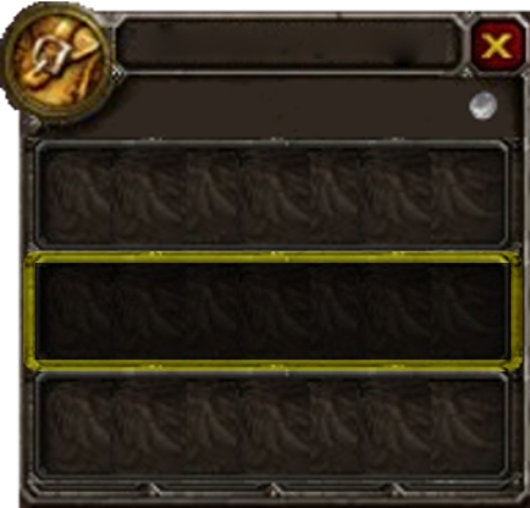
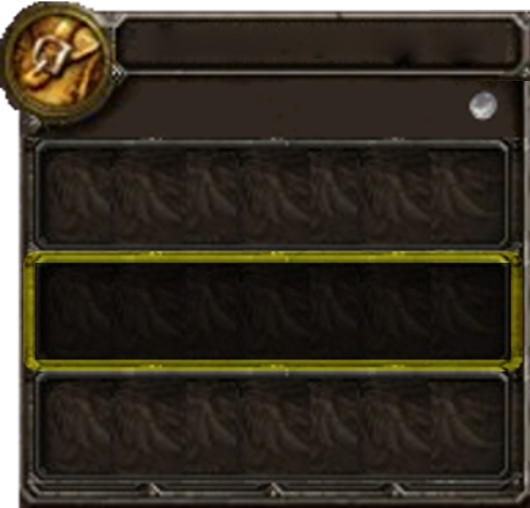
Seperate sprites into 2 arrays & update inventory sprite

Changed region(s): [[0.8453, 0.0, 1.0, 0.1772]]

diff --git a/src/zeldiablo/Canvas.java b/src/zeldiablo/Canvas.java
@@ -29,7 +29,7 @@ public class Canvas extends JPanel {
 
     private final Dimension size;
     public final String imageDirectory;
-    private final String[] bgPictureList;
+    private final String[] bgPictureList, spriteList;
     private ImageIcon backgroundPicture;
     private ImageIcon dialogBox;
     private ImageIcon levelUp;
@@ -62,7 +62,8 @@ public class Canvas extends JPanel {
         size = new Dimension(1180, 780);
         setPreferredSize(size);
         imageDirectory = "images/";
-        bgPictureList = new String[]{"dialogbox.png", "LevelUp.png", "inventory.png", "bg_cobble.jpg", "bg_grass.jpg", "bg_matrix.jpg"};
+        bgPictureList = new String[]{"bg_cobble.jpg", "bg_grass.jpg", "bg_matrix.jpg"};
+        spriteList = new String[]{"dialogbox.png", "LevelUp.png", "inventory.png"};
         gameOver = false;
         demoCounter = 0;
         wKey = false;
@@ -113,7 +114,7 @@ public class Canvas extends JPanel {
      * very important KeyListener that allows to control and play the game!
      */
     private void initGame() {
-        setBackground(5);
+        setBackground(2);
         createGameObjects();
 
         t = new Timer(20, new ActionListener() {
@@ -356,15 +357,15 @@ public class Canvas extends JPanel {
         URL imageURL = getClass().getResource(imagePath);
         backgroundPicture = new ImageIcon(imageURL);
 
-        imagePath = imageDirectory + bgPictureList[0];
+        imagePath = imageDirectory + spriteList[0];
         imageURL = getClass().getResource(imagePath);
         dialogBox = new ImageIcon(imageURL);
 
-        imagePath = imageDirectory + bgPictureList[1];
+        imagePath = imageDirectory + spriteList[1];
         imageURL = getClass().getResource(imagePath);
         levelUp = new ImageIcon(imageURL);
 
-        imagePath = imageDirectory + bgPictureList[2];
+        imagePath = imageDirectory + spriteList[2];
         imageURL = getClass().getResource(imagePath);
         inventory = new ImageIcon(imageURL);
     }
@@ -852,7 +853,7 @@ public class Canvas extends JPanel {
             
             g.setFont(new Font(Font.MONOSPACED, Font.BOLD, 30));
             g.setColor(Color.WHITE);
-            g.drawString("Inventory", 745, 253);
+            g.drawString("Inventory", 775, 253);
 
             //This part is responsible for displaying the money the player owns (silverserpents)
             g.setFont(new Font(Font.MONOSPACED, Font.BOLD, 30));
